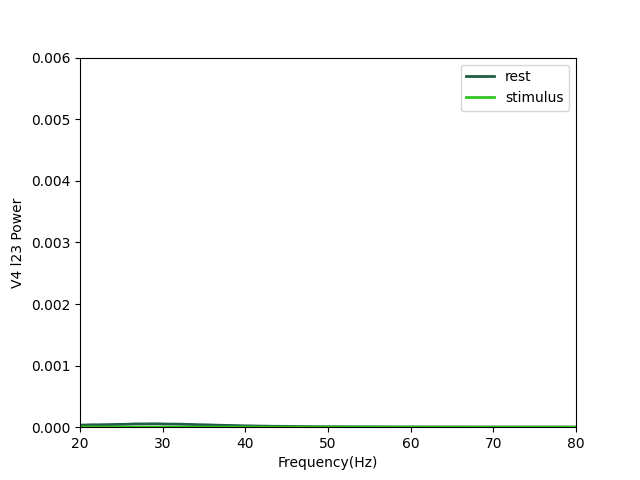
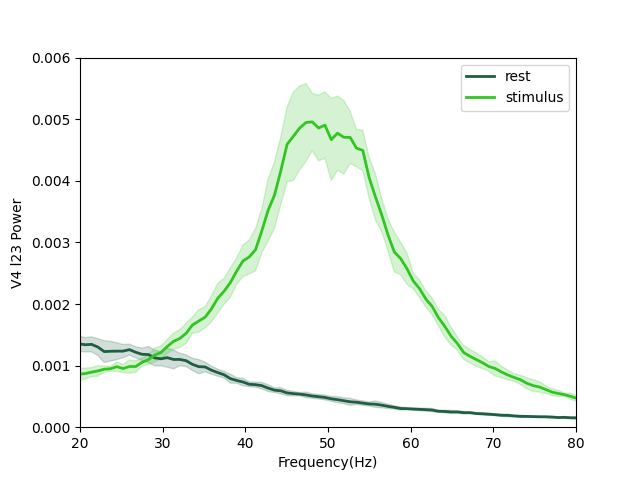
Interareal fixes

Changed region(s): [[0.125, 0.1562, 0.9062, 0.9062]]

diff --git a/Python/interareal.py b/Python/interareal.py
@@ -7,27 +7,32 @@ from calculate_rate import calculate_rate
 from helper_functions import calculate_periodogram, find_peak_frequency, matlab_smooth, plt_filled_std
 
 
-def build_interareal_W():
+def build_interareal_W(Nareas):
     # Interareal connectivity matrix
     # areas: 0 = V1, 1 = V4
     # pops:  0 = L2E, 1 = L2I, 2 = L5E, 3 = L5I
 
     J_FF1 = 1.0
-    J_FB1, J_FB2, J_FB3, J_FB4 = 0.1, 0.5, 0.9, 0.5
+    J_FB1 = 0.1
+    J_FB2 = 0.5
+    J_FB3 = 0.9
+    J_FB4 = 0.5
 
-    W = np.zeros((2, 2, 4, 4))
+    W = np.zeros((Nareas, Nareas, 4, 4))
 
     # Feedforward: V1 (area 0) → V4 (area 1)
-    # from V1 L2E (pop 0) to V4 L2E (pop 0)
+    # from V1 L2/3E to V4 L2/3E
     W[1, 0, 0, 0] = J_FF1
 
-    # Feedback: V4 (area 1) → V1 (area 0), from V4 L5E (pop 2)
-    W[0, 1, 0, 2] = J_FB1   # to V1 L2E
-    W[0, 1, 1, 2] = J_FB2   # to V1 L2I
-    W[0, 1, 2, 2] = J_FB3   # to V1 L5E
-    W[0, 1, 3, 2] = J_FB4   # to V1 L5I
+    # Feedback: V4 (area 1) → V1 (area 0)
+    # from V4 L5/6E to V1 L2/3E
+    W[0, 1, 0, 2] = J_FB1   # V4 L5/6E → V1 L2/3E
+    W[0, 1, 1, 2] = J_FB2   # V4 L5/6E → V1 L2/3I
+    W[0, 1, 2, 2] = J_FB3   # V4 L5/6E → V1 L5/6E
+    W[0, 1, 3, 2] = J_FB4   # V4 L5/6I → V1 L5/6E
 
     return W
+
 
 def interareal_simulation(
     t, dt, tstop,
@@ -46,79 +51,42 @@ def interareal_simulation(
     Nareas = 2
     Npops  = 4
 
-    rate_rest = np.zeros((Npops, Nt, Nareas, nstats))
-    rate_stim = np.zeros((Npops, Nt, Nareas, nstats))
+    rate_V_rest = np.zeros((Nareas * Npops, Nt, 1, nstats))
+    rate_V_stim = np.zeros((Nareas * Npops, Nt, 1, nstats))
 
     for s in range(nstats):
 
         # --------------------
         # 1. REST
         # --------------------
-        r = np.zeros((Npops, Nareas))
-        r_save = np.zeros((Npops, Nt, Nareas))
+        rate_rest = calculate_rate(
+            t, dt, tstop, J, tau, sig,
+            Iext, Ibgk, sigmaoverride,
+            Nareas, W=W)
 
-        for ti in range(Nt):
-
-            noise = sig[:, None] * np.random.randn(Npops, Nareas)
-
-            for a in range(Nareas):
-                # Local intralaminar input
-                local = J @ r[:, a]
-
-                # Interareal input
-                inter = np.zeros(Npops)
-                for b in range(Nareas):
-                    if b != a:
-                        inter += W[a, b] @ r[:, b]
-
-                I = Ibgk[:, a] + Iext[:, a]
-
-                dr = (-r[:, a] + np.tanh(local + inter + I + noise[:, a])) / tau
-                r[:, a] += dt * dr
-
-                r_save[:, ti, a] = r[:, a]
-
-        rate_rest[:, :, :, s] = r_save
-
+        for area in range(Nareas):
+            for pop in range(Npops):
+                rate_V_rest[area * Npops + pop, :, 0, s] = rate_rest[pop, :, area]
 
         # --------------------
         # 2. STIM
         # --------------------
-        r = np.zeros((Npops, Nareas))
-        r_save = np.zeros((Npops, Nt, Nareas))
-
         Iext_stim = Iext.copy()
-        # Apply stimulus only to excitatory populations (L2E=0, L5E=2)
-        # as per paper: "inject current at supra- and infragranular excitatory populations"
         if stim_area == "V1":
-            Iext_stim[0, 0] += stim_intensity  # L2E in V1
-            Iext_stim[2, 0] += stim_intensity  # L5E in V1
+            Iext_stim[0] += stim_intensity # L2/3E in V1
         elif stim_area == "V4":
-            Iext_stim[0, 1] += stim_intensity  # L2E in V4
-            Iext_stim[2, 1] += stim_intensity  # L5E in V4
+            Iext_stim[2] += stim_intensity # L5/6E in V4
 
-        for ti in range(Nt):
+        rate_stim = calculate_rate(
+            t, dt, tstop, J, tau, sig,
+            Iext_stim, Ibgk, sigmaoverride,
+            Nareas, W=W)
 
-            noise = sig[:, None] * np.random.randn(Npops, Nareas)
+        for area in range(Nareas):
+            for pop in range(Npops):
+                rate_V_stim[area * Npops + pop, :, 0, s] = rate_stim[pop, :, area]
 
-            for a in range(Nareas):
-                local = J @ r[:, a]
-
-                inter = np.zeros(Npops)
-                for b in range(Nareas):
-                    if b != a:
-                        inter += W[a, b] @ r[:, b]
-
-                I = Ibgk[:, a] + Iext_stim[:, a]
-
-                dr = (-r[:, a] + np.tanh(local + inter + I + noise[:, a])) / tau
-                r[:, a] += dt * dr
-
-                r_save[:, ti, a] = r[:, a]
-
-        rate_stim[:, :, :, s] = r_save
-
-    return rate_rest, rate_stim
+    return rate_V_rest, rate_V_stim
 
 
 def trialstat(rate, transient, dt, minfreq_l23, minfreq_l56, nareas, stats):
@@ -154,14 +122,13 @@ def trialstat(rate, transient, dt, minfreq_l23, minfreq_l56, nareas, stats):
         for area in range(nareas):
             # Calculate power spectrum for the excitatory population from layer L23
             # rate shape: (Npops, Nt, Nareas, nstats) where pop 0 = L2E, pop 2 = L5E
-            pxx2, fxx2 = calculate_periodogram(rate[0, :, area, stat], transient, dt)
-
+            pxx2, fxx2 = calculate_periodogram(rate[area * 4, :, 0, stat], transient, dt)
             # concatenate the results
             px2[:, area, stat] = pxx2
             fx2[:, area, stat] = fxx2
 
             frequency_l23, amplitudeA_l23, _, _ = \
-                find_peak_frequency(fxx2, pxx2, minfreq_l23, rate[0, :, area, stat])
+                find_peak_frequency(fxx2, pxx2, minfreq_l23, rate[area * 4, :, 0, stat])
 
             powerpeak[k, stat] = amplitudeA_l23
             freqpeak[k, stat] = frequency_l23
@@ -169,13 +136,13 @@ def trialstat(rate, transient, dt, minfreq_l23, minfreq_l56, nareas, stats):
             k += 1
 
             # Calculate power spectrum for the excitatory population from layer L56
-            pxx5, fxx5 = calculate_periodogram(rate[2, :, area, stat], transient, dt)
+            pxx5, fxx5 = calculate_periodogram(rate[area * 4 + 2, :, 0, stat], transient, dt)
             # concatenate the results
             px5[:, area, stat] = pxx5
             fx5[:, area, stat] = fxx5
 
             frequency_l56, amplitudeA_l56, _, _ = \
-                find_peak_frequency(fxx5, pxx5, minfreq_l56, rate[2, :, area, stat])
+                find_peak_frequency(fxx5, pxx5, minfreq_l56, rate[area * 4 + 2, :, 0, stat])
 
             powerpeak[k, stat] = amplitudeA_l56
             freqpeak[k, stat] = frequency_l56

diff --git a/Python/Mejias-2016.py b/Python/Mejias-2016.py
@@ -254,36 +254,35 @@ if __name__ == "__main__":
 
         # Number of areas
         Nareas = 2
+        areas = ["V1", "V4"]
+
+        # Statistical runs
         nstats = 10
+
+        # Frequency ranges
+        minfreq_l23 = 30  # Gamma
+        minfreq_l56 = 4   # Alpha
 
         # Load network config
         tau, sig, J, Iext, Ibgk = get_network_configuration('interareal', noconns=False)
 
         # Interareal connectivity
-        W = build_interareal_W()
+        W = build_interareal_W(Nareas)
 
         # Stimulus intensity as per paper: I=15
         stim_intensity = 15
 
         # ============================================
-        # CONDITION 1: Stimulate V1, Record V4
-        # (Figure 4, panels A-B-C)
-        # Paper: "background current to excitatory populations in 
-        #         supragranular (I=2) and infragranular (I=4) layers"
+        # Stimulate V1, Record V4
         # ============================================
-        print('    Condition 1: Stimulate V1, Record V4 (Fig 4A-C)')
-        
-        # Background currents for condition 1: I=2 for L2E, I=4 for L5E (both areas)
-        # pops: 0=L2E, 1=L2I, 2=L5E, 3=L5I
-        Ibgk_cond1 = np.array([[2, 2],   # L2E: I=2
-                               [0, 0],   # L2I: no background
-                               [4, 4],   # L5E: I=4
-                               [0, 0]])  # L5I: no background
+        print('    Stimulate V1, Record V4 (Fig 4A-C)')
+
+        Iexts_V1 = np.array([2, 0, 4, 0])
         
         rate_rest_v1, rate_stim_v1 = interareal_simulation(
             t, dt, tstop,
             J, W, tau,
-            Iext, Ibgk_cond1, sig,
+            Iexts_V1, Ibgk, sig,
             args.sigmaoverride,
             nstats=nstats,
             stim_area='V1',
@@ -293,14 +292,14 @@ if __name__ == "__main__":
         px20_v1, px2_v1, px50_v1, px5_v1, fx2_v1, pgamma_v1, palpha_v1 = interareal_analysis(
             rate_rest_v1, rate_stim_v1,
             transient, dt,
-            minfreq_l23=20,
-            minfreq_l56=5,
-            nareas=2,
+            minfreq_l23=minfreq_l23,
+            minfreq_l56=minfreq_l56,
+            nareas=Nareas,
             stats=nstats
         )
 
         interareal_plt(
-            areas=["V1", "V4"],
+            areas=areas,
             px20=px20_v1, px2=px2_v1,
             px50=px50_v1, px5=px5_v1,
             fx2=fx2_v1,
@@ -311,22 +310,16 @@ if __name__ == "__main__":
         print('    Saved: interareal/stimulate_V1_*.png')
 
         # ============================================
-        # CONDITION 2: Stimulate V4, Record V1
-        # (Figure 4, panels D-E-F)
-        # Paper: "background current of I=1 to all excitatory areas"
+        # Stimulate V4, Record V1
         # ============================================
-        print('    Condition 2: Stimulate V4, Record V1 (Fig 4D-F)')
-        
-        # Background currents for condition 2: I=1 for all excitatory pops (both areas)
-        Ibgk_cond2 = np.array([[1, 1],   # L2E: I=1
-                               [0, 0],   # L2I: no background
-                               [1, 1],   # L5E: I=1
-                               [0, 0]])  # L5I: no background
+        print('    Stimulate V4, Record V1 (Fig 4D-F)')
+
+        Iexts_V4 = np.array([1, 0, 1, 0])
         
         rate_rest_v4, rate_stim_v4 = interareal_simulation(
             t, dt, tstop,
             J, W, tau,
-            Iext, Ibgk_cond2, sig,
+            Iexts_V4, Ibgk, sig,
             args.sigmaoverride,
             nstats=nstats,
             stim_area='V4',
@@ -336,14 +329,14 @@ if __name__ == "__main__":
         px20_v4, px2_v4, px50_v4, px5_v4, fx2_v4, pgamma_v4, palpha_v4 = interareal_analysis(
             rate_rest_v4, rate_stim_v4,
             transient, dt,
-            minfreq_l23=20,
-            minfreq_l56=5,
-            nareas=2,
+            minfreq_l23=minfreq_l23,
+            minfreq_l56=minfreq_l56,
+            nareas=Nareas,
             stats=nstats
         )
 
         interareal_plt(
-            areas=["V1", "V4"],
+            areas=areas,
             px20=px20_v4, px2=px2_v4,
             px50=px50_v4, px5=px5_v4,
             fx2=fx2_v4,

diff --git a/Python/helper_functions.py b/Python/helper_functions.py
@@ -99,12 +99,7 @@ def get_network_configuration(
         J_2e = 1; J_2i = 0
         J_5e = 0; J_5i = 0.75
 
-        # External input at REST is 0; stimulus is applied separately in interareal_simulation
-        # Background current (Ibgk) provides baseline activity as per paper:
-        # "background current to excitatory populations in supragranular (I=2) 
-        #  and infragranular (I=4) layers in both V1 and V4"
-        Iexts = np.zeros((4, 2))
-        # Iexts = 15 * np.array([[1, 0], [0, 0], [1, 0], [0, 0]])
+        Iexts = np.array([8, 0, 8, 0])
 
     else:
         raise Exception('This type of analysis is not implemented')
@@ -123,10 +118,7 @@ def get_network_configuration(
                   [J_2e, 0,   wee, wie],
                   [J_2i, 0,   wei, wii]])
 
-    if analysis_type == 'interareal':
-        Ibgk = 2 * np.array([[1, 1], [1, 1], [2, 2], [1, 1]])
-    else:
-        Ibgk = np.zeros((J.shape[0]))
+    Ibgk = np.zeros((J.shape[0]))
 
     return tau, sig, J, Iexts, Ibgk
 
